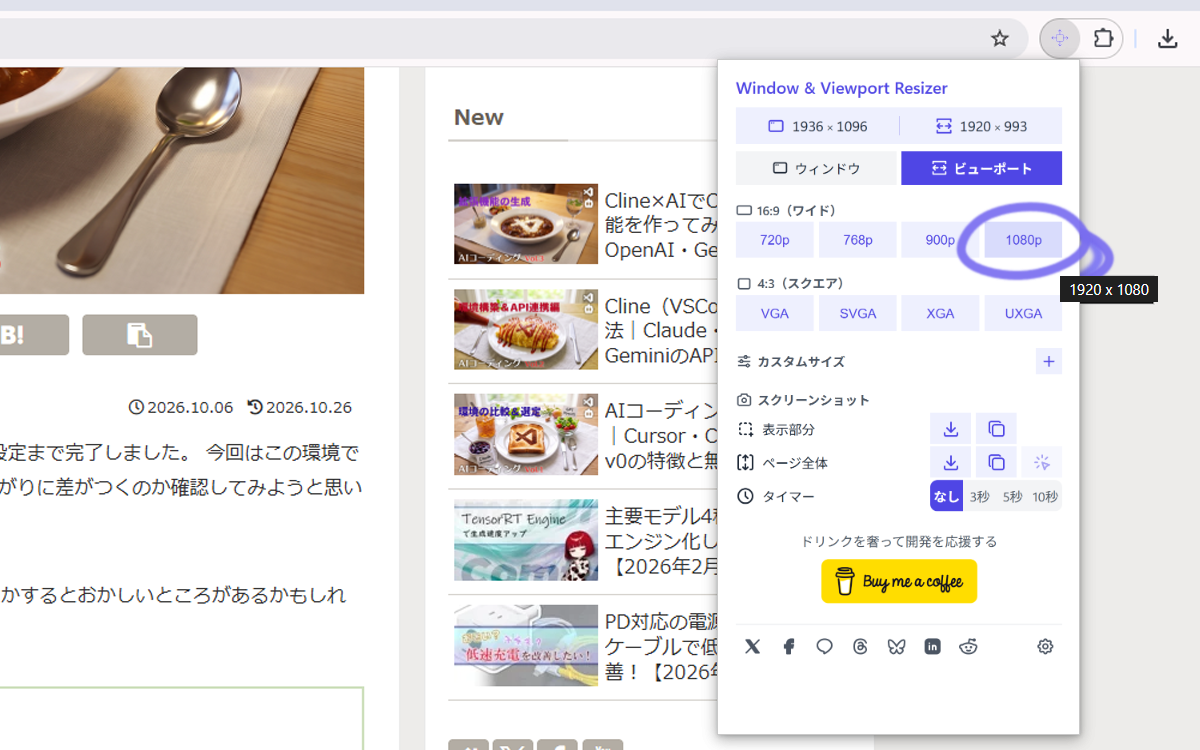
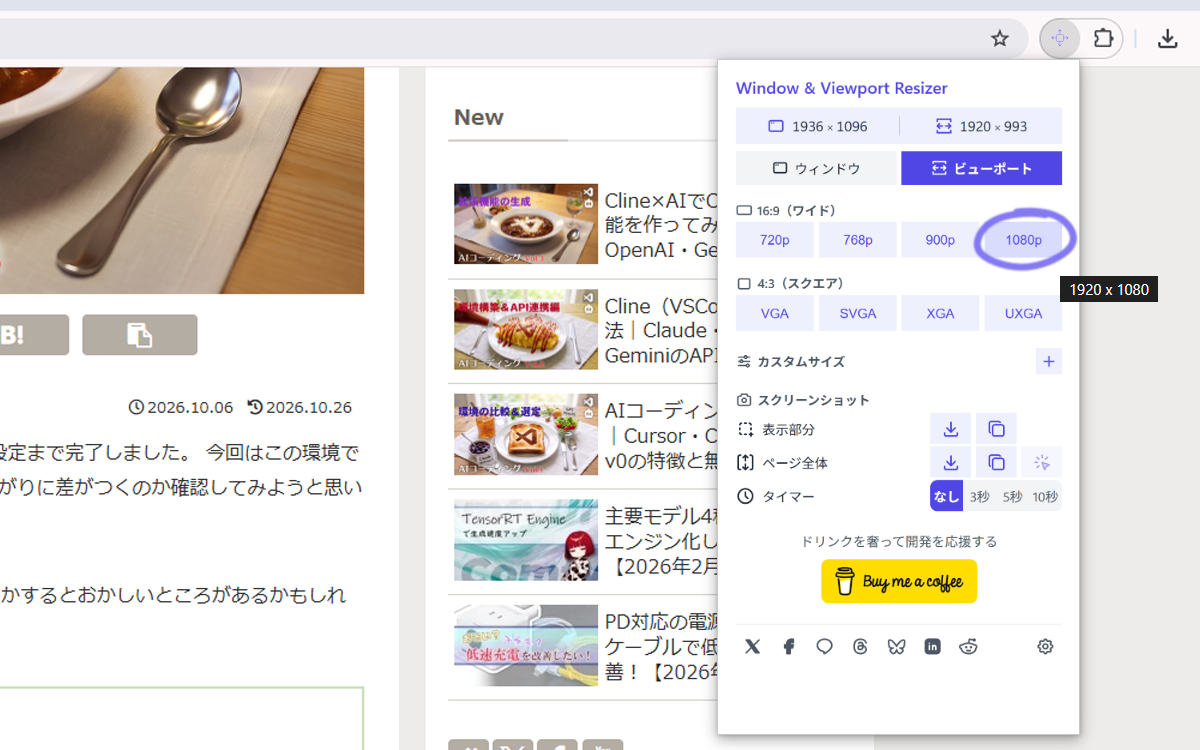
LP の手書きの丸と矢印を自然な形に描き直す（1.0.0）
丸は一筆で重なるようにし、矢印は弧にする。以前の画像に焼き込まれた丸とツールチップも消す。

Changed region(s): [[0.7708, 0.2453, 0.9558, 0.3987]]

diff --git a/store/lp/compose.html b/store/lp/compose.html
@@ -51,16 +51,29 @@
     x: S.popup[0] + box.x * S.scale, y: S.popup[1] + box.y * S.scale,
     w: box.w * S.scale, h: box.h * S.scale
   })
-  if (step === "2") {
-    // FHD ボタンを囲む楕円（右下から始まり一周して少し行き過ぎる）
-    const f = at(b.fhd), cx = f.x + f.w / 2, cy = f.y + f.h / 2 + 1
-    const rx = 62, ry = 34
-    const pts = []
-    for (let t = 0.25; t <= 2 * Math.PI + 0.75; t += 0.05) {
-      const a = -0.09, x = rx * Math.cos(t) * (1 + 0.04 * Math.sin(3 * t)), y = ry * Math.sin(t)
-      pts.push([cx + x * Math.cos(a) - y * Math.sin(a), cy + x * Math.sin(a) + y * Math.cos(a)])
+  const stroke = (pts) => "M" + pts.map((p) => p.map((v) => v.toFixed(1)).join(" ")).join(" L")
+  // 手書きの丸。一筆で少し多めに回り、書き終わりは書き始めの内側に少しずれて重なる。
+  // dir は回る向き（1 は時計回り）、end は書き終わりの角度。
+  const handLoop = (cx, cy, rx, ry, dir, end) => {
+    const pts = [], turn = 2 * Math.PI + 0.6, tilt = -0.08
+    for (let i = 0; i <= 120; i++) {
+      const p = i / 120, t = end - dir * (1 - p) * turn
+      const k = 1.07 - 0.13 * p + 0.012 * Math.sin(5 * t)
+      const x = rx * k * Math.cos(t) + 1.5 * p, y = ry * k * Math.sin(t) - 1.2 * p
+      pts.push([cx + x * Math.cos(tilt) - y * Math.sin(tilt), cy + x * Math.sin(tilt) + y * Math.cos(tilt)])
     }
-    mark.setAttribute("d", "M" + pts.map((p) => p.map((v) => v.toFixed(1)).join(" ")).join(" L"))
+    return pts
+  }
+  mark.setAttribute("stroke-width", "7")
+  if (step === "2") {
+    // 旧画像に焼き込まれた丸とツールチップ（ポップアップの右）を、すぐ上の何もない帯を引き伸ばして消す
+    const right = S.frame[0] + S.frame[2]
+    bg.onload = () => {
+      patch.getContext("2d").drawImage(bg, right, 170, 1200 - right, 30, right, 222, 1200 - right, 100)
+    }
+    // FHD ボタンを囲む丸
+    const f = at(b.fhd)
+    mark.setAttribute("d", stroke(handLoop(f.x + f.w / 2, f.y + f.h / 2, f.w / 2 + 9, f.h / 2 + 9, 1, -1.05)))
     Object.assign(tip.style, { display: "block", left: S.tip[0] + "px", top: S.tip[1] + "px" })
   } else {
     // 旧画像に焼き込まれた矢印を、すぐ上の何もない帯を引き伸ばして消す
@@ -69,22 +82,18 @@
       ctx.drawImage(bg, 430, 346, 176, 24, 430, 396, 176, 100) // ポップアップの右〜サムネイルの左
       ctx.drawImage(bg, 606, 382, 44, 18, 606, 400, 44, 96) // サムネイルの上
     }
-    // 表示部分のダウンロードボタンを囲み、行の間を通るまっすぐな矢印でエクスプローラーへ伸ばす
-    const d = at(b.visibleDownload), cx = d.x + d.w / 2, cy = d.y + d.h / 2
-    const rx = 32, ry = 24, pts = []
-    for (let t = 0.2; t <= 2 * Math.PI + 0.5; t += 0.05) {
-      const a = -0.12, x = rx * Math.cos(t), y = ry * Math.sin(t)
-      pts.push([cx + x * Math.cos(a) - y * Math.sin(a), cy + x * Math.sin(a) + y * Math.cos(a)])
-    }
-    const start = [cx + rx * 0.8, cy + ry * 0.8], tip = [632, 444]
-    const angle = Math.atan2(tip[1] - start[1], tip[0] - start[0])
-    const barb = (d) => [tip[0] - 38 * Math.cos(angle + d), tip[1] - 38 * Math.sin(angle + d)]
+    // 表示部分のダウンロードボタンを丸で囲み、そのまま一筆でエクスプローラーへ弧を描く
+    const d = at(b.visibleDownload)
+    const loop = handLoop(d.x + d.w / 2, d.y + d.h / 2, d.w / 2 + 8, d.h / 2 + 7, -1, 0.7)
+    const start = loop[loop.length - 1], tip = [634, 446]
+    const c1 = [start[0] + 62, start[1] + 12], c2 = [548, 382]
+    const angle = Math.atan2(tip[1] - c2[1], tip[0] - c2[0])
+    const barb = (d, l) => [tip[0] - l * Math.cos(angle + d), tip[1] - l * Math.sin(angle + d)]
     mark.setAttribute(
       "d",
-      "M" + pts.map((p) => p.map((v) => v.toFixed(1)).join(" ")).join(" L") +
-        ` M ${start.join(" ")} L ${tip.join(" ")} M ${barb(0.65).join(" ")} L ${tip.join(" ")} L ${barb(-0.65).join(" ")}`
+      stroke(loop) + ` C ${c1.join(" ")} ${c2.join(" ")} ${tip.join(" ")}` +
+        ` M ${barb(0.62, 36).join(" ")} L ${tip.join(" ")} L ${barb(-0.72, 31).join(" ")}`
     )
-    mark.setAttribute("stroke", "rgb(124, 114, 238)")
   }
 </script>
 </body>
